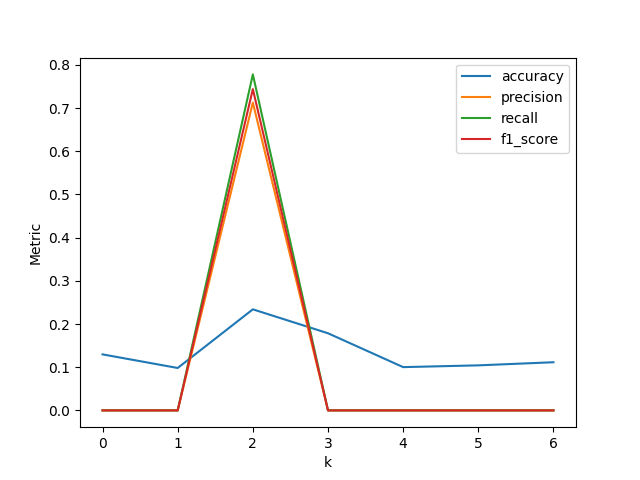
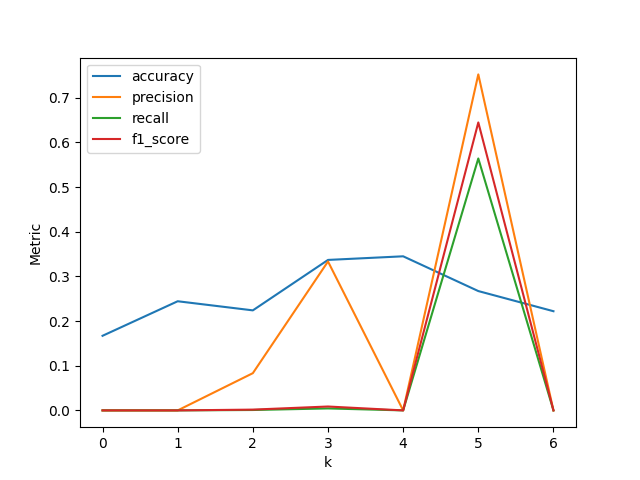
corrections in main

diff --git a/main.py b/main.py
@@ -32,24 +32,24 @@ def main() -> None:
     for k in [5, 10, 20, 50, 100, 200, 500]:
         # reduce the dimensionality of the data
         pca = PCA(n_components=k)
-        X_train = pca.fit_transform(X_train)
-        X_test = pca.transform(X_test)
+        X_train_emb = pca.fit_transform(X_train)
+        X_test_emb = pca.transform(X_test)
 
         # create a model
         svm = MultiClassSVM(num_classes=10)
 
         # fit the model
         svm.fit(
-            X_train, y_train, C=C,
+            X_train_emb, y_train, C=C,
             learning_rate=learning_rate,
             num_iters=num_iters,
         )
 
         # evaluate the model
-        accuracy = svm.accuracy_score(X_test, y_test)
-        precision = svm.precision_score(X_test, y_test)
-        recall = svm.recall_score(X_test, y_test)
-        f1_score = svm.f1_score(X_test, y_test)
+        accuracy = svm.accuracy_score(X_test_emb, y_test)
+        precision = svm.precision_score(X_test_emb, y_test)
+        recall = svm.recall_score(X_test_emb, y_test)
+        f1_score = svm.f1_score(X_test_emb, y_test)
 
         metrics.append((k, accuracy, precision, recall, f1_score))
 

diff --git a/model.py b/model.py
@@ -45,7 +45,7 @@ class SupportVectorModel:
         self.w = np.zeros(X.shape[1])
         self.b = 0
 
-    def _svm_loss(self, X, y, C) -> float:
+    def _svm_loss(self, X, y, C=1) -> float:
         # calculate the hinge loss
         return np.sum(np.maximum(0, 1 - y * (X @ self.w + self.b))) + C * np.sum(self.w ** 2)
 
